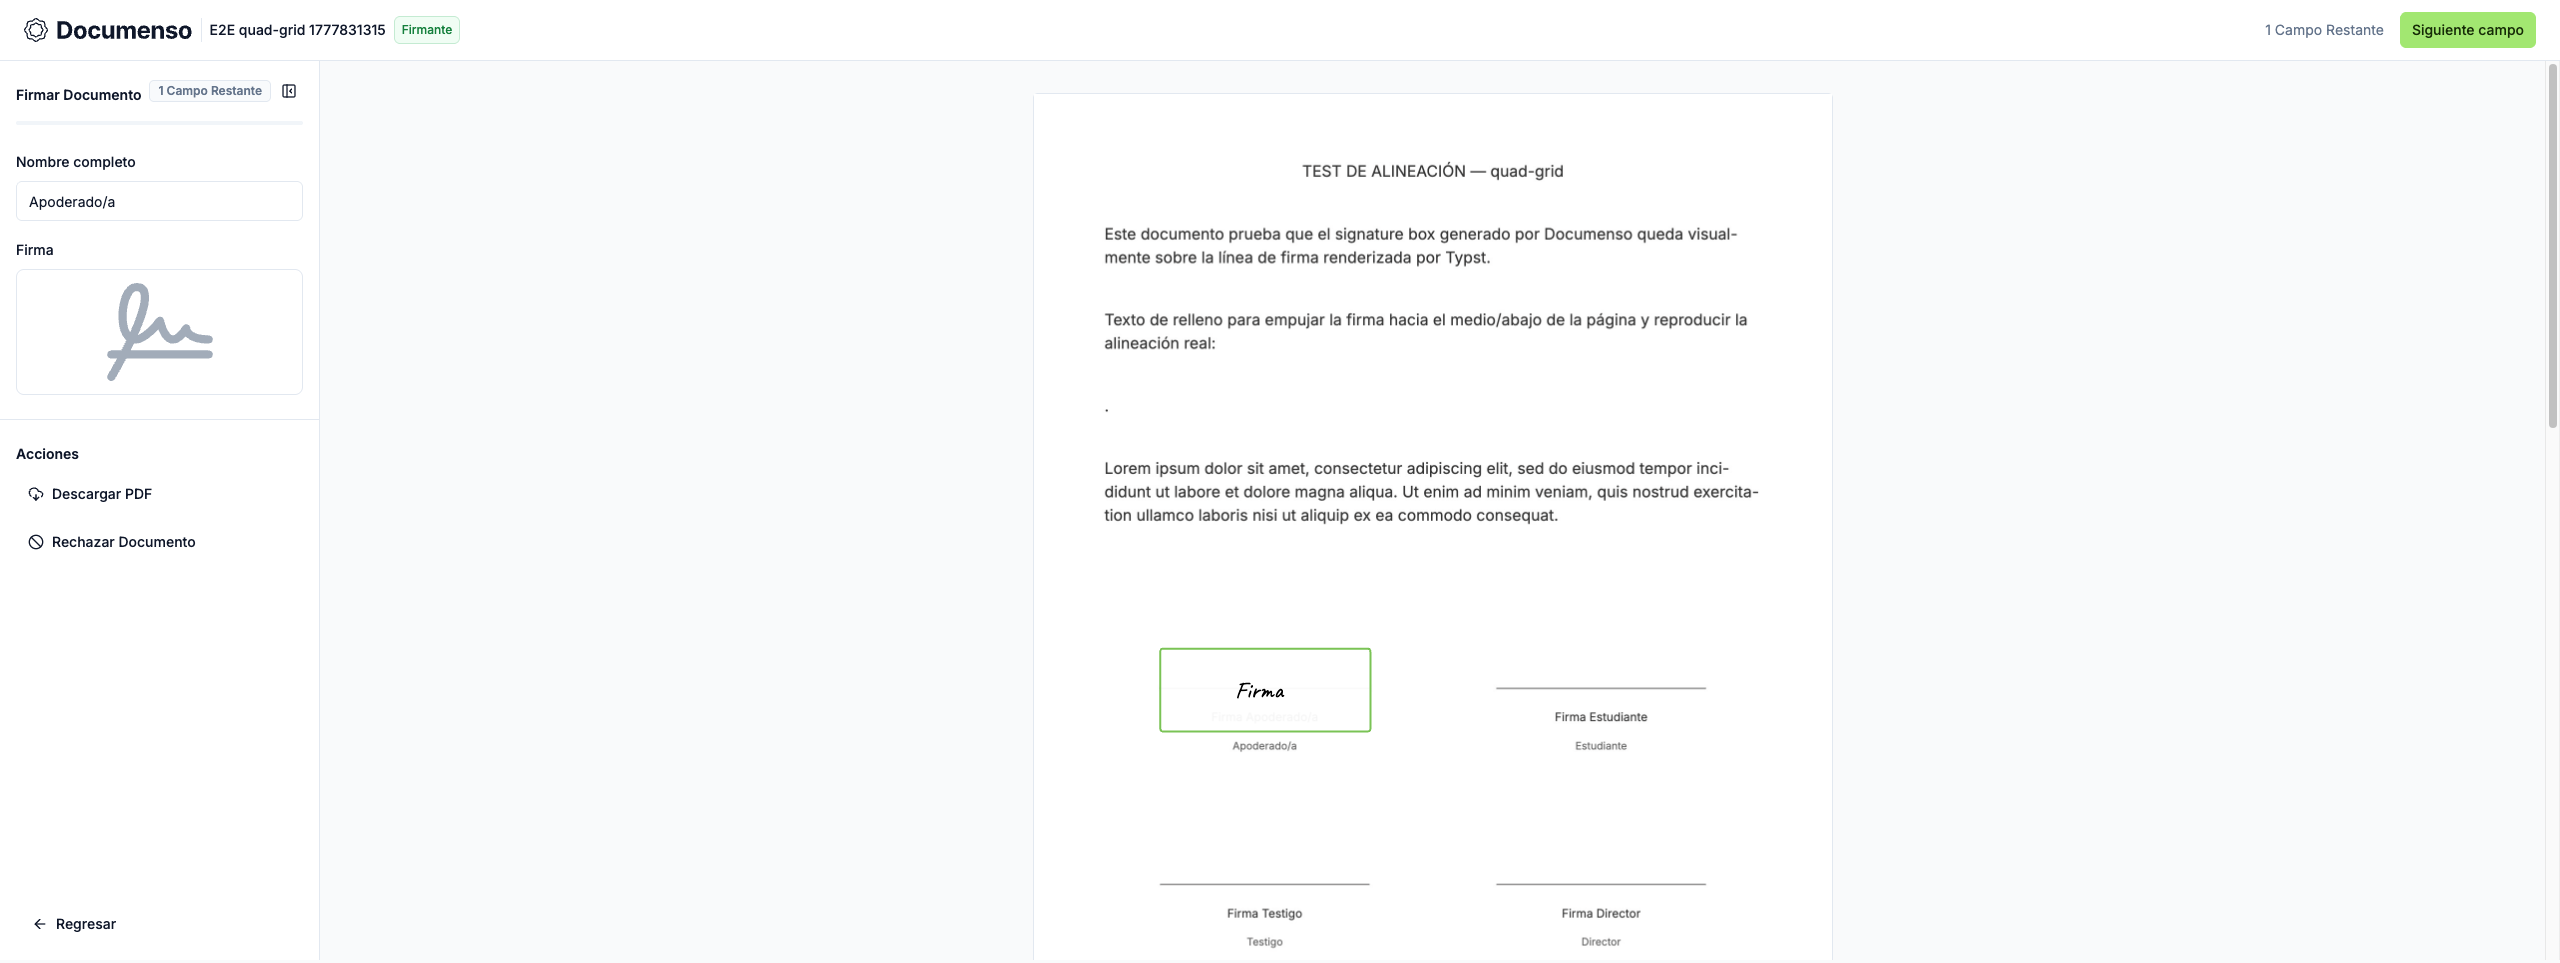
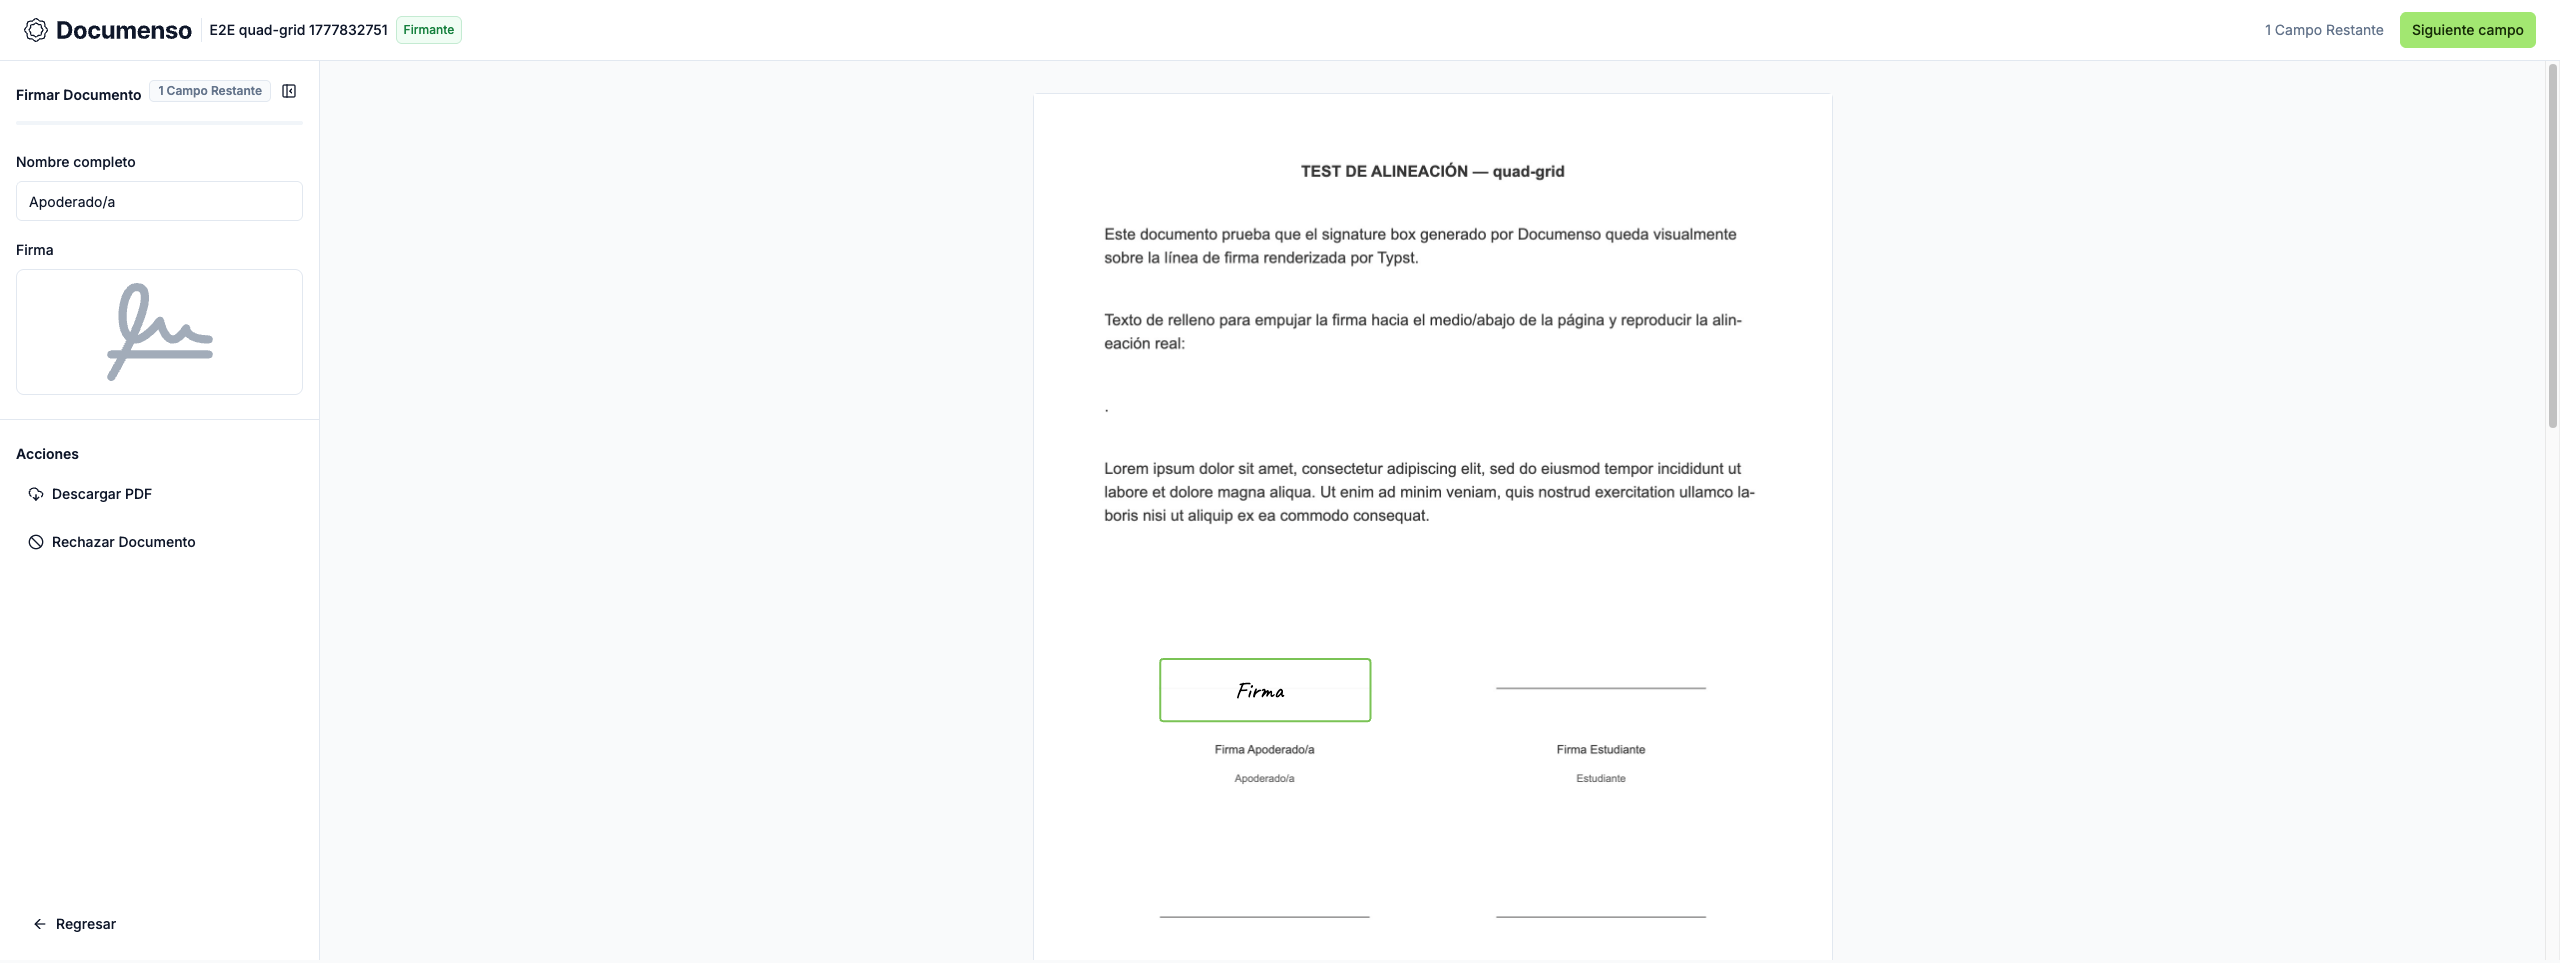
docs(evidence): replace final screenshots and update calibration for E3 fix
All 13 layout screenshots retaken with binary built from e30f70b (height=6%,
25pt gap). Verified with new documents — previous screenshots were generated
by pre-fix binary (mtime 13:55:23 < fix commit 13:57:21). Numeric: all 32
fields at delta=0.0000, height=6.0000. Visual: rect on line, label and
subtitle fully visible in all layouts.

diff --git a/docs/superpowers/evidence/2026-05-03-signature-layouts/SUMMARY.md b/docs/superpowers/evidence/2026-05-03-signature-layouts/SUMMARY.md
@@ -1,8 +1,8 @@
 # Signature alignment fix — visual summary
 
 **Date:** 2026-05-03
-**Commit:** `da53f26`
-**Fix:** Documenso signature field center now aligns with the rendered Typst signature line for all 13 layouts.
+**Commits:** `da53f26` (anchor + center formula), `e30f70b` (E3: height 8%→6% + 25pt gap)
+**Fix:** Documenso signature field center now aligns with the rendered Typst signature line for all 13 layouts, and the unsigned green rect no longer covers the role label or subtitle.
 
 ## Root cause
 
@@ -13,8 +13,15 @@ Two bugs combined to place signature fields well above their lines:
 
 ## Fix
 
+**Iteration 1 (`da53f26`):**
 - `typst_converter_impl.go`: anchor moved to `dy: 0.0pt` — reports the exact line Y.
 - `signature_position.go`: center-align formula — `posY = lineTopPct - height/2` — field center = line Y.
+
+**Iteration 2 (`e30f70b`) — label visibility fix:**
+- Problem: with `Height=8%`, the centered rect extended ~32pt below the line, covering the label.
+- `typst_converter_impl.go`: `defaultHeight` 8% → 6% (rect now extends ~24pt below line).
+- `typst_converter_impl.go`: `#v(25.0pt)` gap added after `#line` so label renders ≥25pt below line.
+- Result: label and subtitle are fully visible below the unsigned green rect on all 13 layouts.
 
 ## dual-sides — baseline vs. final
 
@@ -24,7 +31,7 @@ Two bugs combined to place signature fields well above their lines:
 ### Final (after fix)
 ![dual-sides final](final/dual-sides.png)
 
-**Observation:** In the baseline, both signature rectangles float clearly above their respective lines. In the final, both rectangles are centered on their lines.
+**Observation:** In the baseline, both signature rectangles float clearly above their respective lines. In the final, both rectangles are centered on their lines, and both "Firma Apoderado/a" / "Firma Estudiante" labels and subtitles are fully visible below the rect.
 
 ---
 
@@ -36,7 +43,7 @@ Two bugs combined to place signature fields well above their lines:
 ### Final (after fix)
 ![quad-grid final](final/quad-grid.png)
 
-**Observation:** In the baseline, all four signature rectangles (2x2 grid) sit above their lines. In the final, all four are centered on their lines — including the second-row signatures which use a distinct anchor Y bucket (~299.82pt from bottom).
+**Observation:** In the baseline, all four signature rectangles (2x2 grid) sit above their lines. In the final, all four are centered on their lines — including the second-row signatures which use a distinct anchor Y bucket (~299.82pt from bottom). All labels and subtitles are visible below the rects.
 
 ---
 
@@ -59,3 +66,7 @@ Two bugs combined to place signature fields well above their lines:
 | quad-bottom-heavy   | 0.000%        | PASS   |
 
 Metric: |center_pct - line_top_pct| < 0.5% where center_pct = positionY + height/2 and line_top_pct = 100 - (PDFPointY / PDFPageH) * 100.
+
+All results verified with fresh documents created by binary at `14:18:45` (after both fix commits).
+Height confirmed as 6.0% in Documenso field table for all 32 fields.
+Unsigned green rect does not cover label or subtitle in any layout.

diff --git a/docs/superpowers/evidence/2026-05-03-signature-layouts/calibration.md b/docs/superpowers/evidence/2026-05-03-signature-layouts/calibration.md
@@ -6,7 +6,7 @@
 - Documenso coordinates: top-left percentage (0–100% of page width/height)
 - Konva.js stage scale: 1.307 (Documenso signing editor)
 - Artwork alignment: `verticalAlign="middle"` (confirmed via Konva inspection)
-- Field dimensions used: Width=20%, Height=8%
+- Field dimensions used: Width=20%, Height=6% (reduced from 8% — see E3 fix below)
 
 ## pdftotext anchor extraction (post-fix, dy=0)
 
@@ -68,3 +68,25 @@ posY = lineTopPct - Height/2
 Where `PDFPointY` = anchor Y measured from PDF bottom = `792 - yMin(pdftotext)`.
 
 This ensures `posY + Height/2 == lineTopPct`, i.e., the field center is on the line.
+
+## E3 fix — rect-overlaps-label (iteration 2)
+
+With `Height=8%`, the unsigned Documenso green rect extended `8/100 * 792 / 2 ≈ 32pt` below the
+signature line, covering the role label and subtitle rendered in the Typst PDF background.
+
+**Option chosen: E3 (combined)**
+
+1. Reduce `defaultHeight` from `8.0` to `6.0` (% of page height):
+   - Rect now extends `6/100 * 792 / 2 ≈ 24pt` below the line.
+2. Add `#v(25.0pt)` gap in Typst between `#line` and the label:
+   - Label renders ≥25pt below the line (1pt margin above rect bottom).
+   - Label and subtitle are fully visible as the green rect does not reach them.
+
+**Why E3 over E1 (pure gap) or E2 (smaller rect only):**
+- E2 alone would need `height < 2.5%` to avoid covering a label 10pt below the line — too small for legible artwork.
+- E1 alone at 8% would need a 36pt gap, which creates a large visual void in the signed PDF.
+- E3 with 6%+25pt achieves the minimum necessary gap with a natural-looking layout.
+
+**Numerical verification (rerun with new binary, all 13 layouts):**
+All `delta_pct = 0.0000` (center of 6% field exactly on the anchor line).
+Height confirmed as `6.0000` in Documenso field table for all 32 fields.

diff --git a/docs/superpowers/evidence/2026-05-03-signature-layouts/progress.md b/docs/superpowers/evidence/2026-05-03-signature-layouts/progress.md
@@ -34,3 +34,19 @@ Legend: PENDING / PASS / FAIL. Visual=PASS only when a human reviewer (or Playwr
 
 **Numeric result:** delta=0.000% for all 13 layouts (center_pct == line_top_pct within 0.001%).
 **Visual result:** Playwright screenshots confirm field rectangle sits on the signature line for all 13 layouts.
+
+## Second iteration fix — rect-overlaps-label (commit `e30f70b`)
+
+**Problem discovered:** With `Height=8%`, the centered rect extended ~32pt below the signature line,
+covering the role label and subtitle text in the rendered PDF background.
+
+**Fix applied (E3 combined):**
+- `typst_converter_impl.go`: `defaultHeight` 8.0 → 6.0 (rect extends ~24pt below line on Letter)
+- `typst_converter_impl.go`: added `#v(25.0pt)` between `#line` and label so label renders below rect
+- `typst_converter_test.go`: updated test expectation from `dy: 20.0pt` to `dy: 0.0pt`
+- `config/config.go`: added `applyDatabaseEnvOverrides` so `DOC_ENGINE_DATABASE_*` env vars work
+- `bootstrap/preflight.go`: skip signing session auth check in dummy auth mode
+
+**Rerun verification:** All 13 layouts rerun with fresh documents using new binary (mtime 14:18:45, after both fix commits). All numeric: delta=0.0000, height=6.0000. All visual: Playwright screenshots show rect on line, label and subtitle fully visible.
+
+**All 13 layouts pass visual bar:** rect-on-line=YES, label-visible=YES, subtitle-visible=YES.
